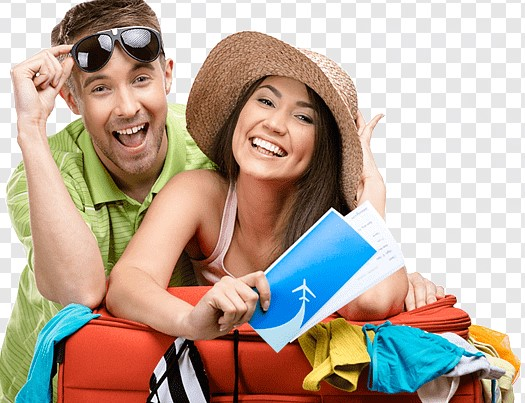
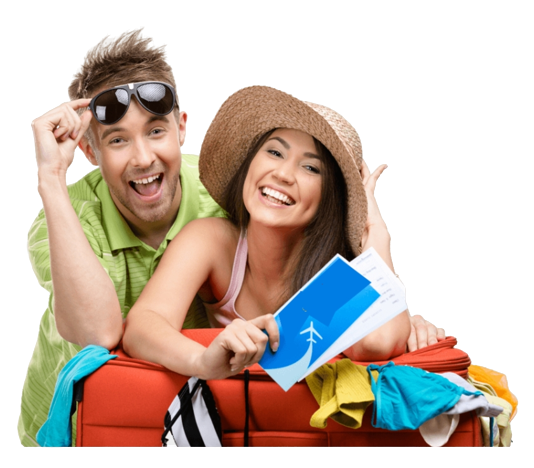
landing page reponsive

diff --git a/index.html b/index.html
@@ -26,7 +26,7 @@
         <!-- header start -->
         <header>
             <nav class="navbar navbar-expand-lg bg-transparent text-light">
-                <div class="container nav-inner">
+                <div class="container nav-inner d-flex justify-content-between">
                     <div class="logo d-flex align-items-center">
                         <img src="images/logo.PNG" alt="logo" width="100px" height="30px">
                         <a class="navbar-brand" href="#">Mr. Tour</a>
@@ -36,7 +36,7 @@
                         aria-controls="navbarNav" aria-expanded="false" aria-label="Toggle navigation">
                         <span class="navbar-toggler-icon"></span>
                     </button>
-                    <div class="collapse navbar-collapse justify-content-center" id="navbarNav">
+                    <div class="collapse navbar-collapse justify-content-end" id="navbarNav">
                         <ul class="navbar-nav ">
                             <li class="nav-item">
                                 <a class="nav-link active" aria-current="page" href="#">Home</a>
@@ -50,82 +50,97 @@
 
                         </ul>
                         <a id="home-signin-btn" class="btn sign mx-4" href="pages/sign_in page.html">Sign In</a>
-                    </div>
-                    <div id="home-profile-container" class="icon-container rounded-4 p-1 d-none">
-                        <div class="d-flex justify-content-between align-items-center">
-                            <h6 id="user-icon-name">Muhammad Sameer</h6>
-                           
-                            <i class="fa fa-user-circle " aria-hidden="true"></i>
-                        </div>
-                        <div class="view-container d-flex justify-content-between p-2 ">
-                            <a  id="logout_btn" class="me-3" href="index.html">Logout</a>
-                            <a class="view " href="pages/profile.html">View Profile</a>
+                        <div id="home-profile-container" class=" icon-container d-flex flex-column align-items-end rounded-4 p-1 d-none">
+                            <div class="d-flex  align-items-center">
+                                <h6 id="user-icon-name">Muhammad Sameer</h6>
+                               
+                                <i class="fa fa-user-circle " aria-hidden="true"></i>
+                            </div>
+                            <div class="view-container d-flex  p-2 ">
+                                <a  id="logout_btn" class="me-3" href="index.html">Logout</a>
+                                <a class="view " href="pages/profile.html">View Profile</a>
+                            </div>
                         </div>
                     </div>
                 </div>
             </nav>
-            <div>
-                <div class="container landing-container">
-                    <div class="inner-head d-flex justify-content-between">
-                        <div class="discover">
-                            <!-- <img class="circle-i" src="images/circle.PNG" alt="">
-                            <img class="card-i" src="images/card.PNG" alt=""> -->
-                            <div class="title-container">
-                                <h1>
-                                    Discover the <span>Best Lovely Places!</span>
-                                </h1>
-                                <p>Plain and book your perfect with expert advice, travel trips, destination information
-                                    and
-                                    spiration from us.</p>
+           
+        </header>
+
+        <!-- /header end -->
+        <!-- //landing page start -->
+        <div>
+            <div class="container landing-container">
+                <div class="row column-gap-2 inner-head p-2 ">
+                    <div class="col-md-4 discover text-center">
+   
+                        <div class="title-container">
+                            <h1>
+                                Discover the <span>Best Lovely Places!</span>
+                            </h1>
+                            <p>Plain and book your perfect with expert advice, travel trips, destination information
+                                and
+                                spiration from us.</p>
+                        </div>
+                        <div class="discover-now-container d-flex justify-content-center">
+                            <button class="btn discover-btn me-3">Discover Now</button>
+                            <div class="request-call-container d-flex justify-content-between align-items-center">
+                                <div class="phone-icon rounded-circle  d-flex justify-content-center align-items-center">
+                                    <i class="fa fa-phone rounded-circle p-3" aria-hidden="true"></i>
+                                </div>
+                                <h6 class="px-2">Request a call</h6>
                             </div>
-                            <div class="discover-now-container d-flex justify-content-between">
-                                <button class="btn discover-btn">Discover Now</button>
-                                <div class="request-call-container d-flex justify-content-between align-items-center">
-                                    <div class="phone-icon d-flex justify-content-center align-items-center">
-                                        <i class="fa fa-phone" aria-hidden="true"></i>
-                                    </div>
-                                    <h6>Request a call</h6>
+                        </div>
+                    </div>
+                    <div class="col-md-7 aside d-flex justify-content-center align-items-center">
+                        <div class="card d-flex justify-content-center align-items-center rounded-3">
+                            <div class="trip-card rounded-circle p-3">
+                                <div class="trip-card-inner p-1 rounded-circle  d-flex justify-content-center align-items-center flex-column">
+                                    <h4>28</h4>
+                                    <p>Times to Travel</p>
+                                    
                                 </div>
                             </div>
+                            <h3>28</h3>
+                            <p>Total Trip(nonth)</p>
                         </div>
-                        <div class="aside">
-                            <div class="image-container d-flex">
-                                <img src="images/people.png" alt="">
-                            </div>
+                        
+                        <div class="image-container d-flex justify-content-center align-items-center" >
+                            <img src="images/people.png" class="image-fluid img-thumbnail rounded" alt="">
                         </div>
                     </div>
-                    <div class="inner-foot d-flex justify-content-evenly align-items-center my-4">
-                        <div class="foot-content">
-                            <button><i class="fa fa-search" aria-hidden="true"></i> Search</button>
-                        </div>
-                        <div class="foot-content d-flex justify-content-between align-items-center">
-                            <div class="location"><i class="fa fa-map-marker" aria-hidden="true"></i></div>
-                            <div class="foot-icon d-flex flex-column mx-2">
-                                <h6>Destination</h6>
-                                <h4>Monaco,Itlay</h4>
-                            </div>
-                        </div>
-                        <div class="foot-content d-flex justify-content-between align-items-center">
-                            <div class="location"><i class="fa fa-usd" aria-hidden="true"></i></div>
-                            <div class="foot-icon d-flex flex-column mx-2">
-                                <h6>Average</h6>
-                                <h4>$500 - $800</h4>
-                            </div>
-                        </div>
-                        <div class="foot-content d-flex justify-content-between align-items-center">
-                            <div class="location"><i class="fa fa-calendar" aria-hidden="true"></i></div>
-                            <div class="foot-icon d-flex flex-column mx-2">
-                                <h6>Average</h6>
-                                <h4>Jun 25 , Nov</h4>
-                            </div>
-                        </div>
-                       
-                    </div>
-
                 </div>
+                <div class="row mt-3 container-fluid inner-foot justify-content-center align-items-center">
+                    <div class=" col-sm-6 col-lg-2 mt-3 column-gap-2 foot-content d-flex align-items-center justify-content-center">
+                        <button><i class="fa fa-search" aria-hidden="true"></i> Search</button>
+                    </div>
+                    <div class=" col-sm-6 col-lg-3 mt-3 column-gap-2 foot-content d-flex align-items-center justify-content-center ">
+                        <div class="location"><i class="fa-solid fa-location-dot"></i></div>
+                        <div class="foot-icon d-flex flex-column mx-2">
+                            <h6>Destination</h6>
+                            <h4>Monaco,Itlay</h4>
+                        </div>
+                    </div>
+                    <div class=" col-sm-6 col-lg-3 mt-3 column-gap-2 foot-content d-flex align-items-center justify-content-center ">
+                        <div class="location"><i class="fa fa-usd" aria-hidden="true"></i></div>
+                        <div class="foot-icon d-flex flex-column mx-2">
+                            <h6>Average</h6>
+                            <h4>$500 - $800</h4>
+                        </div>
+                    </div>
+                    <div class=" col-sm-6 col-lg-4 mt-3 column-gap-2 foot-content d-flex align-items-center justify-content-center ">
+                        <div class="location"><i class="fa fa-calendar" aria-hidden="true"></i></div>
+                        <div class="foot-icon d-flex flex-column mx-2">
+                            <h6>Average</h6>
+                            <h4>Jun 25 , Nov</h4>
+                        </div>
+                    </div>
+                   
+                </div>
+
             </div>
-        </header>
-        <!-- /header end -->
+        </div>
+        <!-- landing page end -->
         <script src="js/login.js"></script>
         
   <!-- <script src="js/signpage.js"></script> -->

diff --git a/css/main.css b/css/main.css
@@ -58,9 +58,11 @@ header .navbar-brand {
 }
 header .navbar-nav .active{
     border-bottom: 2px solid var(--color-orange);
+    color: var(--color-main) !important;
 }
 header .navbar-nav .nav-link{
     margin-right: 1.5rem;
+    font-size: 1.2rem;
 } 
 header .navbar-nav .nav-link:hover{
     border-bottom: 2px solid var(--color-orange);
@@ -94,59 +96,74 @@ header .navbar-nav .nav-link:hover{
 .landing-container{
     margin-top: 2rem;
 }
-.inner-head{
-    width: 100%;
-    /* background: fuchsia; */
+
+
+.discover .title-container h1{
+    /* position: relative; */
+    font-size: 3rem;
 }
 
-.inner-head .discover{
-    width: 30%;
+.discover .title-container h1 span{
+  color: var(--color-main);
+  font-weight: 700;
 }
-.inner-head .aside{
-    width: 40%;
-}
-.discover{
-    position: relative;
-}
-.discover .circle-i{
-    position: absolute;
-    top: 8rem;
-    left: 31rem;
-}
-.discover .card-i{
-    position: absolute;
-    top: 4rem;
-    left: 55rem;
+.discover .title-container p{
+  font-size: 1.2rem;
+  font-family: var(--font-secondary);
+  line-height: 1.5;
+  margin: 2rem 0;;
 }
 .discover-now-container .discover-btn{
     background: var(--color-main);
     color: var(--color-primary);
+    /* font-size: 1.2rem; */
+    font-family: var(--font-secondary);
+    /* font-weight: 600; */
 }
+
 .discover-now-container .phone-icon{
     background: var(--color-orange);
-    border-radius: 100%;
+    /* border-radius: 100%; */
     width: 20px;
     height: 20px;
-    padding: 1.2rem;
+    padding: 1.8rem;
 }
 .discover-now-container .phone-icon i{
     color: rebeccapurple;
     background: var(--color-light-black);
-    border-radius: 100%;
+    /* border-radius: 100%; */
     font-size: 1rem;
-    padding: 0.5rem;
+    /* padding: 1rem; */
 }
+
+/*  card landing */
 .aside{
-    /* background: indianred; */
+  position: relative
 }
-.image-container{
-    /* background: var(--color-yellow); */
+.aside .card{
+  position: absolute;
+  font-family: var(--font-secondary);
   
-    
+}
+.aside .card .trip-card{
+  background: var(--color-orange);
+}
+.trip-card-inner{
+  background: var(--color-primary);
+}
+
+
+/* card landing end */
+
+.image-container{
+  /* background: gold; */
+  /* width: 70%; */
 }
 .image-container img{
-    width: 250px    ;
-    height: 300px;
+    width: 80%;
+    height: auto;
+    /* background: #000; */
+    /* margin-top: 10rem; */
 }
 
 .inner-foot{
@@ -156,13 +173,13 @@ header .navbar-nav .nav-link:hover{
 }
 .foot-content button{
     background: var(--color-main);
-    padding: 1rem;
+    padding: 1rem 2rem;
     border-radius: 1rem;
     color: var(--color-light-black);
 }
 .foot-content .location i{
-    font-size: 2rem;
-    padding: 0.5rem;
+    font-size: 1.5rem;
+    padding: 1.5rem;
     color: var(--color-main);
     border: 1px solid var(--color-main);
     border-radius: 1rem;
@@ -172,9 +189,8 @@ header .navbar-nav .nav-link:hover{
 }
 
 
-.bg {
-    /* background: #A0E7E5; */
-  }
+
+
   
   .main {
     width: 100%;
@@ -306,7 +322,7 @@ header .navbar-nav .nav-link:hover{
   }
   
 
-  /* contact form */
+  /* contact form  start*/
 .main-contact{
   
   display: flex;
